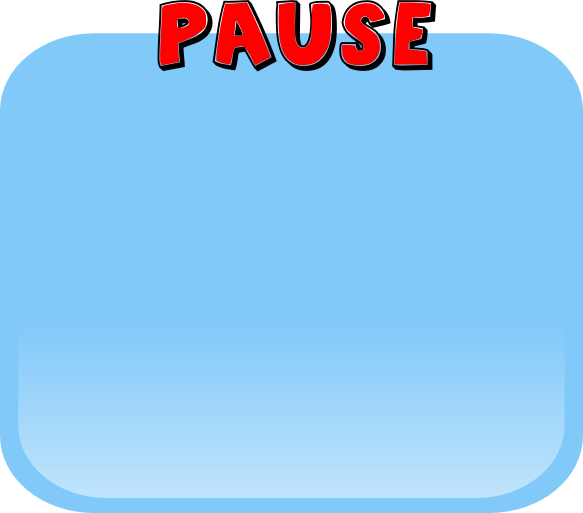
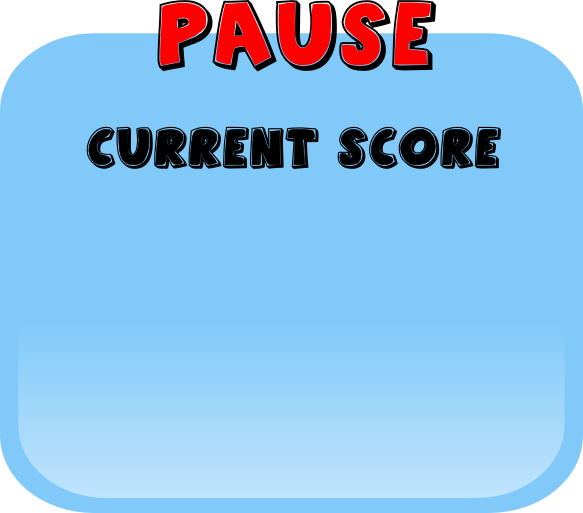
Retoques en swarm y añadido toast para rate

Changed region(s): [[0.1235, 0.2495, 0.8645, 0.3431]]

diff --git a/ProtectTheTown/src/com/lucianosimo/protectthetown/scene/MainMenuScene.java b/ProtectTheTown/src/com/lucianosimo/protectthetown/scene/MainMenuScene.java
@@ -15,10 +15,14 @@ import org.andengine.entity.text.TextOptions;
 import org.andengine.util.adt.align.HorizontalAlign;
 import org.andengine.util.adt.color.Color;
 
+import android.app.AlertDialog;
+import android.content.DialogInterface;
 import android.content.Intent;
 import android.content.SharedPreferences;
+import android.content.SharedPreferences.Editor;
 import android.net.Uri;
 import android.preference.PreferenceManager;
+import android.util.Log;
 
 import com.lucianosimo.protectthetown.base.BaseScene;
 import com.lucianosimo.protectthetown.manager.SceneManager;
@@ -42,6 +46,17 @@ public class MainMenuScene extends BaseScene implements IOnMenuItemClickListener
 	public void createScene() {
 		screenWidth = resourcesManager.camera.getWidth();
 		screenHeight = resourcesManager.camera.getHeight();
+		SharedPreferences sharedPreferences = PreferenceManager.getDefaultSharedPreferences(activity);
+		int played = sharedPreferences.getInt("played", 0);
+		//Rated: 0 = no, 1 = yes, 2 = no and don't want to rate
+		int rated = sharedPreferences.getInt("rated", 0);
+		Log.i("protect", "played: " + played);
+		Log.i("protect", "rated: " + rated);
+		if (rated == 0) {
+			if (played == 5 || played == 20 || played == 50) {
+				displayRateUsWindow();
+			}
+		}
 		createBackground();
 		createMenuChildScene();
 	}
@@ -120,7 +135,13 @@ public class MainMenuScene extends BaseScene implements IOnMenuItemClickListener
 				SceneManager.getInstance().loadGameScene(engine, this);
 				return true;
 			case MENU_RATEUS:
-				activity.startActivity(new Intent(Intent.ACTION_VIEW, Uri.parse("market://details?id=" + "com.lucianosimo.parachuteaction")));
+				activity.startActivity(new Intent(Intent.ACTION_VIEW, Uri.parse("market://details?id=" + "com.lucianosimo.protectthetown")));
+				SharedPreferences sharedPreferences = PreferenceManager.getDefaultSharedPreferences(activity);
+				int rated = sharedPreferences.getInt("rated", 0);
+				Editor editor = sharedPreferences.edit();
+				rated = 1;
+				editor.putInt("rated", rated);
+				editor.commit();
 				return true;
 			case MENU_GLOBAL_SCORES:
 				activity.showLeaderboard();
@@ -142,6 +163,53 @@ public class MainMenuScene extends BaseScene implements IOnMenuItemClickListener
 	private void loadHighScore() {
 		SharedPreferences sharedPreferences = PreferenceManager.getDefaultSharedPreferences(activity);
 		highScore = sharedPreferences.getInt("highScore", 0);
+	}
+	
+	private void displayRateUsWindow() {
+		MainMenuScene.this.activity.runOnUiThread(new Runnable() {
+			
+			@Override
+			public void run() {
+				new AlertDialog.Builder(MainMenuScene.this.activity)
+				.setMessage("Do you want to rate us")
+				.setPositiveButton("Yes", new DialogInterface.OnClickListener() {
+
+				    public void onClick(DialogInterface dialog, int whichButton) {
+				    	activity.startActivity(new Intent(Intent.ACTION_VIEW, Uri.parse("market://details?id=" + "com.lucianosimo.protectthetown")));
+				    	SharedPreferences sharedPreferences = PreferenceManager.getDefaultSharedPreferences(activity);
+						int rated = sharedPreferences.getInt("rated", 0);
+						Editor editor = sharedPreferences.edit();
+						rated = 1;
+						editor.putInt("rated", rated);
+						editor.commit();
+				    }})
+				.setNegativeButton("Never", new DialogInterface.OnClickListener() {
+					
+					@Override
+					public void onClick(DialogInterface dialog, int which) {
+						SharedPreferences sharedPreferences = PreferenceManager.getDefaultSharedPreferences(activity);
+						int rated = sharedPreferences.getInt("rated", 0);
+						Editor editor = sharedPreferences.edit();
+						rated = 2;
+						editor.putInt("rated", rated);
+						editor.commit();						
+					}
+				})
+				.setNeutralButton("Maybe later", new DialogInterface.OnClickListener() {
+					
+					@Override
+					public void onClick(DialogInterface dialog, int which) {
+						SharedPreferences sharedPreferences = PreferenceManager.getDefaultSharedPreferences(activity);
+						int played = sharedPreferences.getInt("played", 0);
+						Editor editor = sharedPreferences.edit();
+						played++;
+						editor.putInt("played", played);
+						editor.commit();						
+					}
+				})
+				.show();
+			}
+		});
 	}
 
 }

diff --git a/ProtectTheTown/src/com/lucianosimo/protectthetown/pools/ExplosionPool.java b/ProtectTheTown/src/com/lucianosimo/protectthetown/pools/ExplosionPool.java
@@ -5,8 +5,6 @@ import org.andengine.opengl.texture.region.ITiledTextureRegion;
 import org.andengine.opengl.vbo.VertexBufferObjectManager;
 import org.andengine.util.adt.pool.GenericPool;
 
-import android.util.Log;
-
 import com.lucianosimo.protectthetown.scene.GameScene;
 
 public class ExplosionPool extends GenericPool<AnimatedSprite>{
@@ -27,10 +25,10 @@ public class ExplosionPool extends GenericPool<AnimatedSprite>{
     @Override
     protected AnimatedSprite onAllocatePoolItem() {
     	newExplosionsCreated++;
-    	Log.i("protect", "new new explosion sprite");
+    	/*Log.i("protect", "new new explosion sprite");
     	Log.i("protect", "********************************");
     	Log.i("protect", "newExplosionsCreated: " + newExplosionsCreated);
-    	Log.i("protect", "********************************");
+    	Log.i("protect", "********************************");*/
     	AnimatedSprite exp = new AnimatedSprite(0, 0, iTextureRegion.deepCopy(), vbom);
     	//game.attachChild(exp);
         return exp;
@@ -44,24 +42,24 @@ public class ExplosionPool extends GenericPool<AnimatedSprite>{
     	explosion.detachSelf();
     	explosion.reset();
     	explosionsRecycled++;
-    	Log.i("protect", "------------------------------");
+    	/*Log.i("protect", "------------------------------");
     	Log.i("protect", "explosion recycled");
     	Log.i("protect", "------------------------------");
     	Log.i("protect", "********************************");
     	Log.i("protect", "explosionsRecycled: " + explosionsRecycled);
-    	Log.i("protect", "********************************");
+    	Log.i("protect", "********************************");*/
     }
     
     @Override
     protected void onHandleObtainItem(AnimatedSprite explosion) {
-    	Log.i("protect", "new recycled explosion sprite");
+    	/*Log.i("protect", "new recycled explosion sprite");
     	Log.i("protect", "available: " + this.getAvailableItemCount());
     	Log.i("protect", "unrecycled: " + this.getUnrecycledItemCount());
-    	Log.i("protect", "------------------------------");
+    	Log.i("protect", "------------------------------");*/
     	explosionsObtained++;
-    	Log.i("protect", "********************************");
+    	/*Log.i("protect", "********************************");
     	Log.i("protect", "explosionsObtained: " + explosionsObtained);
-    	Log.i("protect", "********************************");
+    	Log.i("protect", "********************************");*/
     	explosion.reset();
     	explosion.setVisible(true);
     	if (!explosion.hasParent()) {

diff --git a/ProtectTheTown/src/com/lucianosimo/protectthetown/manager/ResourcesManager.java b/ProtectTheTown/src/com/lucianosimo/protectthetown/manager/ResourcesManager.java
@@ -55,6 +55,7 @@ public class ResourcesManager {
 	public Font scoreFont;
 	public Font countdownFont;
 	public Font gameOverFont;
+	public Font currentScoreFont;
 	public Font finalScoreFont;
 	public Font pauseFont;
 	
@@ -354,16 +355,19 @@ public class ResourcesManager {
 		final ITexture countdownTexture = new BitmapTextureAtlas(activity.getTextureManager(), 256, 256, TextureOptions.BILINEAR_PREMULTIPLYALPHA);
 		final ITexture gameOverTexture = new BitmapTextureAtlas(activity.getTextureManager(), 256, 256, TextureOptions.BILINEAR_PREMULTIPLYALPHA);
 		final ITexture finalScoreTexture = new BitmapTextureAtlas(activity.getTextureManager(), 256, 256, TextureOptions.BILINEAR_PREMULTIPLYALPHA);
+		final ITexture currentScoreTexture = new BitmapTextureAtlas(activity.getTextureManager(), 256, 256, TextureOptions.BILINEAR_PREMULTIPLYALPHA);
 		final ITexture pauseTexture = new BitmapTextureAtlas(activity.getTextureManager(), 256, 256, TextureOptions.BILINEAR_PREMULTIPLYALPHA);
 		scoreFont = FontFactory.createStrokeFromAsset(activity.getFontManager(), scoreTexture, activity.getAssets(), "font.ttf", 35, true, Color.WHITE_ARGB_PACKED_INT, 1f, Color.WHITE_ARGB_PACKED_INT);
 		countdownFont = FontFactory.createStrokeFromAsset(activity.getFontManager(), countdownTexture, activity.getAssets(), "font.ttf", 70, true, Color.RED_ARGB_PACKED_INT, 2f, Color.RED_ARGB_PACKED_INT);
 		gameOverFont = FontFactory.createStrokeFromAsset(activity.getFontManager(), gameOverTexture, activity.getAssets(), "font.ttf", 45, true, Color.RED_ARGB_PACKED_INT, 2f, Color.RED_ARGB_PACKED_INT);
 		finalScoreFont = FontFactory.createStrokeFromAsset(activity.getFontManager(), finalScoreTexture, activity.getAssets(), "font.ttf", 40, true, Color.RED_ARGB_PACKED_INT, 2f, Color.RED_ARGB_PACKED_INT);
+		currentScoreFont = FontFactory.createStrokeFromAsset(activity.getFontManager(), currentScoreTexture, activity.getAssets(), "font.ttf", 40, true, Color.RED_ARGB_PACKED_INT, 2f, Color.RED_ARGB_PACKED_INT);
 		pauseFont = FontFactory.createStrokeFromAsset(activity.getFontManager(), pauseTexture, activity.getAssets(), "font.ttf", 45, true, Color.RED_ARGB_PACKED_INT, 2f, Color.RED_ARGB_PACKED_INT);
 		scoreFont.load();
 		countdownFont.load();
 		gameOverFont.load();
 		finalScoreFont.load();
+		currentScoreFont.load();
 		pauseFont.load();
 	}
 	
@@ -379,6 +383,7 @@ public class ResourcesManager {
 		countdownFont.unload();
 		gameOverFont.unload();
 		finalScoreFont.unload();
+		currentScoreFont.unload();
 		pauseFont.unload();
 	}
 	

diff --git a/ProtectTheTown/src/com/lucianosimo/protectthetown/GameActivity.java b/ProtectTheTown/src/com/lucianosimo/protectthetown/GameActivity.java
@@ -49,7 +49,8 @@ public class GameActivity extends BaseGameActivity {
 		CBPreferences.getInstance().setAnimationsOff(true);
 		CBPreferences.getInstance().setOrientation(CBOrientation.PORTRAIT);*/
 		//scoreNinjaAdapter = new ScoreNinjaAdapter(this, APP_ID, PRIVATE_KEY);
-		Swarm.setActive(this);		
+		Swarm.setActive(this);
+		Swarm.preload(this, SWARM_APP_ID, SWARM_APP_KEY);
 	}
 	
     /*@Override
@@ -72,7 +73,10 @@ public class GameActivity extends BaseGameActivity {
     }*/
     
 	public void showLeaderboard() {
-		Swarm.init(this, SWARM_APP_ID, SWARM_APP_KEY);
+		Swarm.setAllowGuests(true);
+		if (!Swarm.isInitialized() ) {
+    		Swarm.init(this, SWARM_APP_ID, SWARM_APP_KEY);
+        }
 		this.runOnUiThread(new Runnable() {
     		@Override
     		public void run() {
@@ -84,7 +88,10 @@ public class GameActivity extends BaseGameActivity {
 	
     public void submitScore(int submitScore) {
     	score = submitScore;
-    	Swarm.init(this, SWARM_APP_ID, SWARM_APP_KEY);
+    	Swarm.setAllowGuests(true);
+    	if (!Swarm.isInitialized() ) {
+    		Swarm.init(this, SWARM_APP_ID, SWARM_APP_KEY);
+        }
     	this.runOnUiThread(new Runnable() {
     		@Override
     		public void run() {
@@ -99,6 +106,7 @@ public class GameActivity extends BaseGameActivity {
 		camera = new BoundCamera(0, 0, 1280, 720);
 		EngineOptions engineOptions = new EngineOptions(true, ScreenOrientation.LANDSCAPE_FIXED, new FillResolutionPolicy(), this.camera);
 		engineOptions.getAudioOptions().setNeedsMusic(true).setNeedsSound(true);
+		engineOptions.getRenderOptions().setDithering(true);
 		engineOptions.setWakeLockOptions(WakeLockOptions.SCREEN_ON);
 		return engineOptions;
 	}

diff --git a/ProtectTheTown/src/com/lucianosimo/protectthetown/scene/GameScene.java b/ProtectTheTown/src/com/lucianosimo/protectthetown/scene/GameScene.java
@@ -71,6 +71,7 @@ public class GameScene extends BaseScene{
 	
 	//Texts
 	private Text scoreText;
+	private Text currentScoreText;
 	private Text finalScoreText;
 	
 	//Constants	
@@ -1508,6 +1509,9 @@ public class GameScene extends BaseScene{
 		GameScene.this.setIgnoreUpdate(true);		
 		
 		pauseWindow.setPosition(camera.getCenterX(), camera.getCenterY());
+		currentScoreText = new Text(291, 300, resourcesManager.currentScoreFont, "123456789", new TextOptions(HorizontalAlign.LEFT), vbom);
+		currentScoreText.setColor(Color.BLACK_ARGB_PACKED_INT);
+		currentScoreText.setText(""+score);
 		
 	    retryButton = new Sprite(270, 50, resourcesManager.game_retry_button_region, vbom){
 	    	public boolean onAreaTouched(TouchEvent pSceneTouchEvent, float pTouchAreaLocalX, float pTouchAreaLocalY) {
@@ -1540,6 +1544,7 @@ public class GameScene extends BaseScene{
 					gameHud.setVisible(true);
 					GameScene.this.detachChild(fade);
 					GameScene.this.detachChild(pauseWindow);
+					pauseWindow.detachChild(currentScoreText);
 	    			GameScene.this.setIgnoreUpdate(false);
 	    			GameScene.this.unregisterTouchArea(this);
 	    		    GameScene.this.unregisterTouchArea(retryButton);
@@ -1552,6 +1557,7 @@ public class GameScene extends BaseScene{
 	    GameScene.this.registerTouchArea(resumeButton);
 	    GameScene.this.registerTouchArea(retryButton);
 	    GameScene.this.registerTouchArea(quitButton);
+	    pauseWindow.attachChild(currentScoreText);
 	    pauseWindow.attachChild(resumeButton);
 	    pauseWindow.attachChild(retryButton);	    
 	    pauseWindow.attachChild(quitButton);

diff --git a/ProtectTheTown/src/com/lucianosimo/protectthetown/scene/SplashScene.java b/ProtectTheTown/src/com/lucianosimo/protectthetown/scene/SplashScene.java
@@ -9,6 +9,10 @@ import org.andengine.entity.sprite.Sprite;
 import org.andengine.opengl.util.GLState;
 import org.andengine.util.adt.color.Color;
 
+import android.content.SharedPreferences;
+import android.content.SharedPreferences.Editor;
+import android.preference.PreferenceManager;
+
 import com.lucianosimo.protectthetown.base.BaseScene;
 import com.lucianosimo.protectthetown.manager.SceneManager.SceneType;
 
@@ -23,7 +27,14 @@ public class SplashScene extends BaseScene{
 	@Override
 	public void createScene() {
 		screenWidth = resourcesManager.camera.getWidth();
-		screenHeight = resourcesManager.camera.getHeight();		
+		screenHeight = resourcesManager.camera.getHeight();	
+		
+		SharedPreferences sharedPreferences = PreferenceManager.getDefaultSharedPreferences(activity);
+		int played = sharedPreferences.getInt("played", 0);
+		Editor editor = sharedPreferences.edit();
+		played++;
+		editor.putInt("played", played);
+		editor.commit();
 		
 		setBackground(new Background(Color.WHITE));
 			
